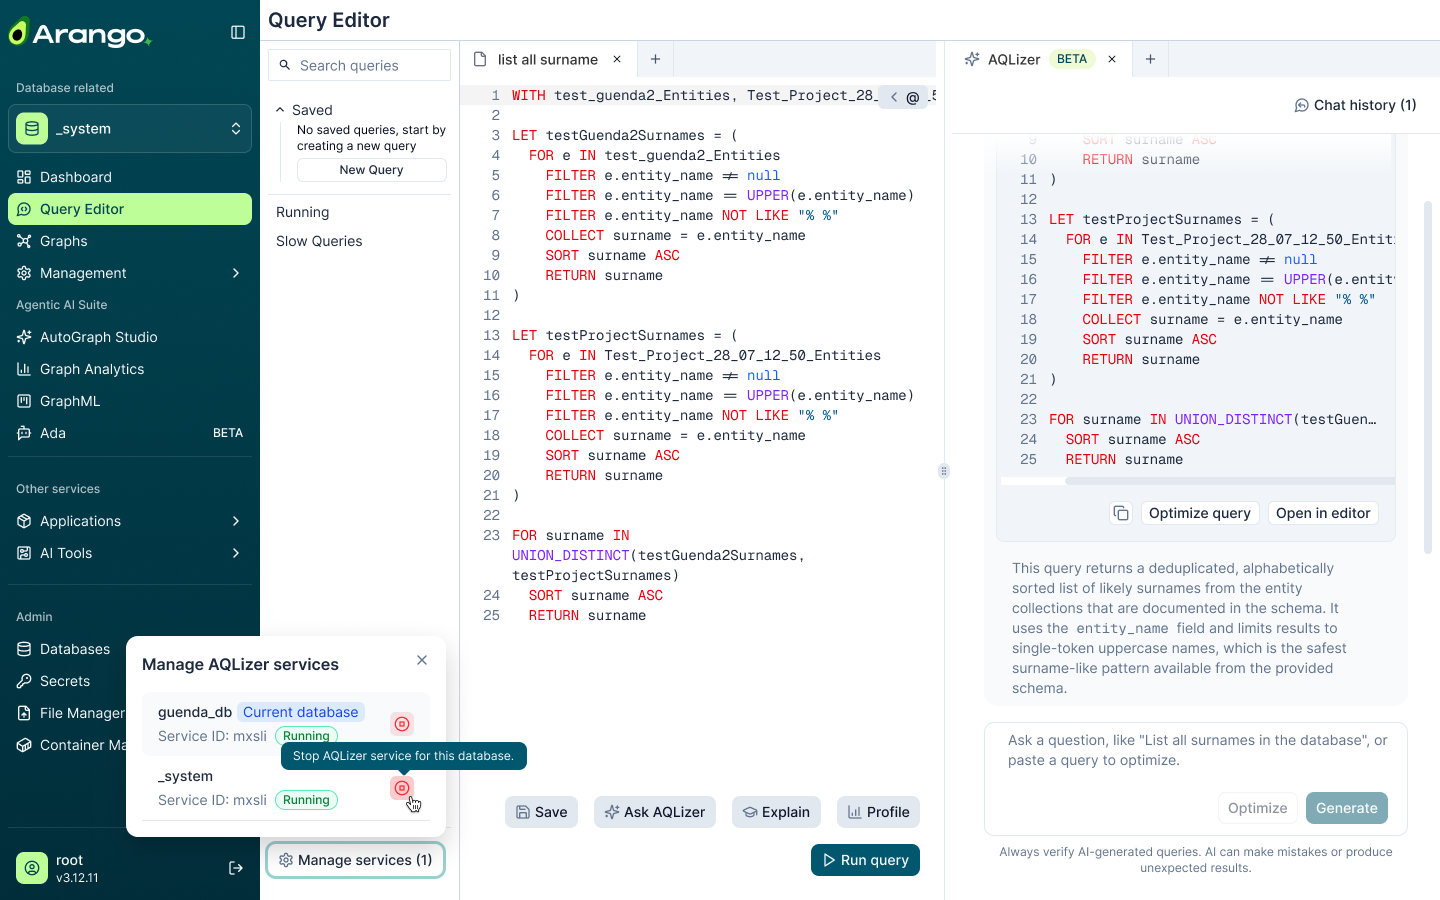
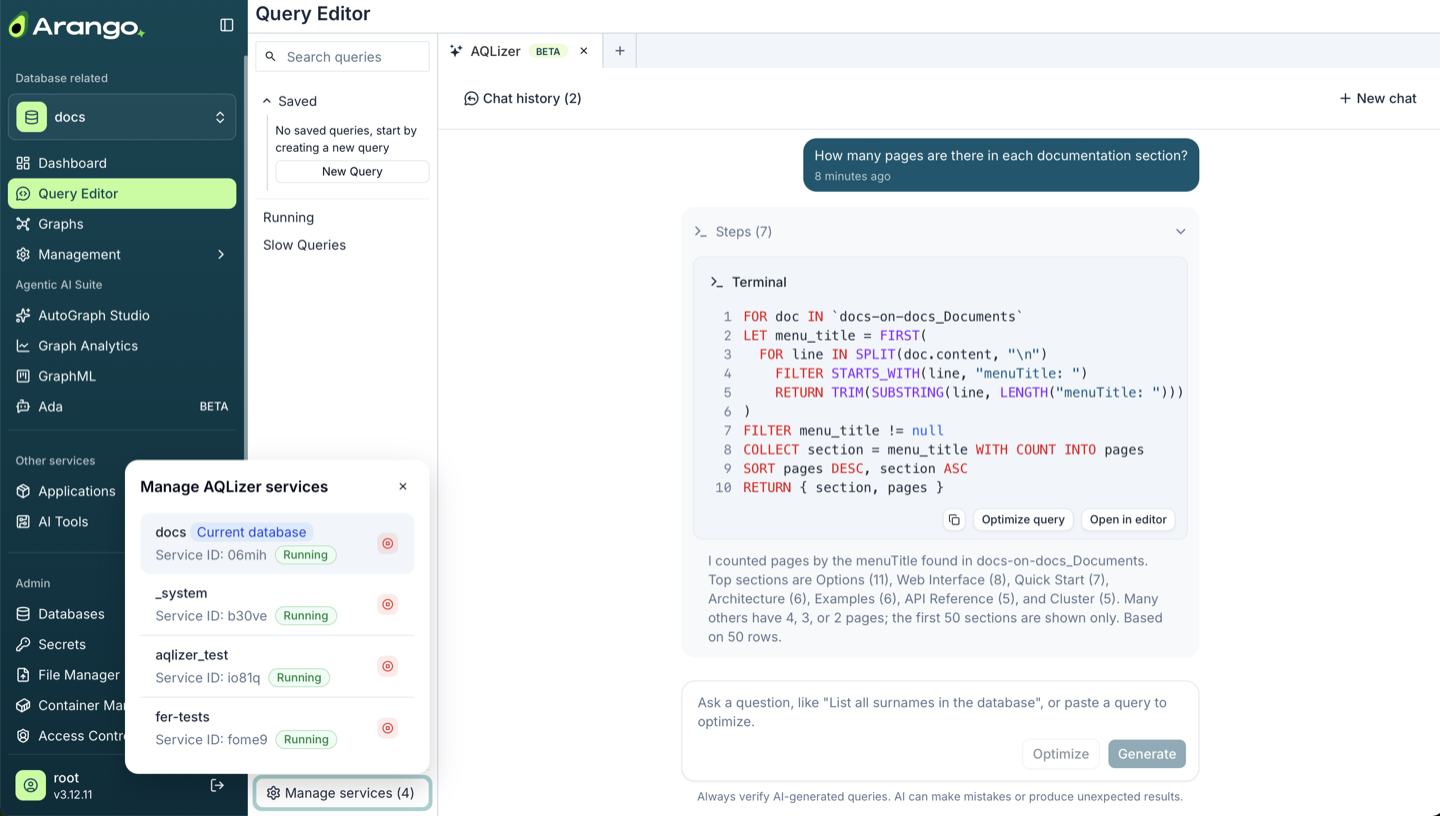
DOC-1002: Retake AQLizer screenshots, remove MCP endpoints
- Retake the generate, optimize, chat history, and manage services
  screenshots on the current UI and restore the services image
- Describe how chats are titled in the chat history
- Remove the MCP server endpoints from the API reference, as MCP
  servers are not supported as standalone services

diff --git a/site/content/contextual-data-platform/aqlizer/api-reference.md b/site/content/contextual-data-platform/aqlizer/api-reference.md
@@ -31,12 +31,8 @@ in the database.
 | [`POST /txt2aql`](#generate-a-query) | Generate | Turn a question into an AQL query, run it, and answer the question | Synchronous or streamed |
 | [`POST /query`](#optimize-a-query) | Optimize | Make an AQL query faster, with results verified to match | Synchronous or streamed |
 | [`POST /query/permission`](#approve-or-reject-a-tool-call) | Approve | Answer a request for permission to run a tool during `POST /query` | Synchronous |
-| [`POST /mcp/register`](#register-an-mcp-server) | Connect | Register the MCP server that provides the database tools | Synchronous |
-| [`GET /mcp/registered`](#list-registered-mcp-servers) | Connect | List the registered MCP servers | Synchronous |
-| [`DELETE /mcp/unregister/{server_name}`](#unregister-an-mcp-server) | Disconnect | Remove a registered MCP server | Synchronous |
 | [`GET /health`](#check-that-the-service-is-running) | Monitor | Check that the service process is running | Synchronous |
 | [`GET /health/ready`](#check-that-the-service-is-ready) | Monitor | Check the connection to the AI coder and the MCP server | Synchronous |
-| [`GET /health/mcp`](#check-the-mcp-server-connection) | Monitor | Report the connection status of each MCP server | Synchronous |
 
 ## Generate a query
 
@@ -454,158 +450,6 @@ curl -X POST \
   https://<EXTERNAL_ENDPOINT>:8529/reasoner/{service_id_postfix}/query/permission
 ```
 
-## Register an MCP server
-
-{{< endpoint "POST" "https://<EXTERNAL_ENDPOINT>:8529/reasoner/{service_id_postfix}/mcp/register" >}}
-
-Connects the AQLizer to the MCP server that provides its database tools. When
-the data platform starts the AQLizer, it registers the internal MCP server
-automatically, so you only need this endpoint to reconnect it. The AQLizer
-supports one MCP server at a time.
-
-### Request
-
-```json
-{
-  "name": "arangodb",
-  "config": {
-    "type": "remote",
-    "url": "http://arangodb-mcp-server-ir6oe:8080/",
-    "enabled": true
-  }
-}
-```
-
-### Parameters
-
-| Parameter | Type | Required | Default | Description |
-|-----------|------|----------|---------|-------------|
-| `name` | string | Yes | | The name of the MCP server, for example `arangodb`. |
-| `config.type` | string | No | `local` | `remote` for an MCP server reached over HTTP, such as the internal MCP server. |
-| `config.url` | string | For `remote` | | The URL of the MCP server, `http://arangodb-mcp-server-<postfix>:8080/`, where `<postfix>` is the end of the MCP server's service ID. |
-| `config.enabled` | boolean | No | `true` | Whether the MCP server is enabled. |
-
-### Response
-
-```json
-{
-  "success": true,
-  "message": "MCP server 'arangodb' registered successfully",
-  "server_name": "arangodb"
-}
-```
-
-| Field | Type | Meaning |
-|-------|------|---------|
-| `success` | boolean | Whether the MCP server has been registered. |
-| `message` | string | A status message. |
-| `server_name` | string | The name of the registered MCP server. |
-
-| Status Code | Meaning |
-|-------------|---------|
-| `200` | The MCP server has been registered. |
-| `400` | `config.url` is missing for `remote`, or `config.type` is not supported. |
-| `401` | The `Authorization` header is missing or invalid, or the token is expired. |
-| `500` | Registering failed. |
-| `502` | The AI coder sent an invalid response. |
-| `503` | The AQLizer cannot reach its AI coder. |
-| `504` | The AI coder did not respond after 3 attempts. |
-
-### HTTP example
-
-```bash
-curl -X POST \
-  -H "Content-Type: application/json" \
-  -H "Authorization: Bearer <token>" \
-  -d '{
-    "name": "arangodb",
-    "config": {
-      "type": "remote",
-      "url": "http://arangodb-mcp-server-ir6oe:8080/",
-      "enabled": true
-    }
-  }' \
-  https://<EXTERNAL_ENDPOINT>:8529/reasoner/{service_id_postfix}/mcp/register
-```
-
-## List registered MCP servers
-
-{{< endpoint "GET" "https://<EXTERNAL_ENDPOINT>:8529/reasoner/{service_id_postfix}/mcp/registered" >}}
-
-Lists the names of the MCP servers the AQLizer is connected to.
-
-### Response
-
-```json
-{
-  "registered_servers": ["arangodb"]
-}
-```
-
-| Field | Type | Meaning |
-|-------|------|---------|
-| `registered_servers` | string[] | The names of the registered MCP servers. |
-
-| Status Code | Meaning |
-|-------------|---------|
-| `200` | The list has been returned. |
-| `401` | The `Authorization` header is missing or invalid, or the token is expired. |
-| `503` | The AQLizer cannot reach its AI coder to read the list. |
-
-### HTTP example
-
-```bash
-curl -X GET \
-  -H "Authorization: Bearer <token>" \
-  https://<EXTERNAL_ENDPOINT>:8529/reasoner/{service_id_postfix}/mcp/registered
-```
-
-## Unregister an MCP server
-
-{{< endpoint "DELETE" "https://<EXTERNAL_ENDPOINT>:8529/reasoner/{service_id_postfix}/mcp/unregister/{server_name}" >}}
-
-Removes a registered MCP server. Without an MCP server, generating fails with
-`Can not generate AQL`.
-
-### Parameters
-
-| Parameter | Type | Required | Default | Description |
-|-----------|------|----------|---------|-------------|
-| `server_name` | string | Yes | | Path parameter. The name of the MCP server to remove, for example `arangodb`. |
-
-### Response
-
-```json
-{
-  "success": true,
-  "message": "MCP server 'arangodb' unregistered successfully",
-  "server_name": "arangodb"
-}
-```
-
-| Field | Type | Meaning |
-|-------|------|---------|
-| `success` | boolean | `true` if the MCP server has been removed or was not registered. |
-| `message` | string | A status message. If the MCP server was not registered, `MCP server '<name>' was already not registered`. |
-| `server_name` | string | The name from the path. |
-
-| Status Code | Meaning |
-|-------------|---------|
-| `200` | The MCP server has been removed, or was not registered. |
-| `401` | The `Authorization` header is missing or invalid, or the token is expired. |
-| `500` | Unregistering failed. |
-| `502` | The AI coder sent an invalid response. |
-| `503` | The AQLizer cannot reach its AI coder. |
-| `504` | The AI coder did not respond after 3 attempts. |
-
-### HTTP example
-
-```bash
-curl -X DELETE \
-  -H "Authorization: Bearer <token>" \
-  https://<EXTERNAL_ENDPOINT>:8529/reasoner/{service_id_postfix}/mcp/unregister/arangodb
-```
-
 ## Check that the service is running
 
 {{< endpoint "GET" "https://<EXTERNAL_ENDPOINT>:8529/reasoner/{service_id_postfix}/health" >}}
@@ -684,42 +528,4 @@ information. Use it as the Kubernetes readiness probe. No token is needed.
 ```bash
 curl -X GET \
   https://<EXTERNAL_ENDPOINT>:8529/reasoner/{service_id_postfix}/health/ready
-```
-
-## Check the MCP server connection
-
-{{< endpoint "GET" "https://<EXTERNAL_ENDPOINT>:8529/reasoner/{service_id_postfix}/health/mcp" >}}
-
-Reports the connection status of each registered MCP server. No token is
-needed.
-
-### Response
-
-```json
-{
-  "status": "healthy",
-  "servers": {
-    "arangodb": { "status": "connected" }
-  },
-  "connected_servers": ["arangodb"],
-  "timestamp": "2026-03-27T10:30:00.000Z"
-}
-```
-
-| Field | Type | Meaning |
-|-------|------|---------|
-| `status` | string | `healthy` if the registered MCP server is connected, `degraded` if it is not, `unhealthy` if no MCP server is configured, `error` if the AI coder could not be reached to read the status. |
-| `servers` | object | The connection status of each MCP server. |
-| `connected_servers` | string[] | The names of the connected MCP servers. |
-| `timestamp` | string | The time of the check. |
-
-| Status Code | Meaning |
-|-------------|---------|
-| `200` | The check has run. Read `status` for the result. |
-
-### HTTP example
-
-```bash
-curl -X GET \
-  https://<EXTERNAL_ENDPOINT>:8529/reasoner/{service_id_postfix}/health/mcp
 ```

diff --git a/site/content/contextual-data-platform/aqlizer/web-interface.md b/site/content/contextual-data-platform/aqlizer/web-interface.md
@@ -71,7 +71,7 @@ the editor to see them.
 You can optimize the result again until the AQLizer finds no further
 improvement.
 
-![Screenshot of the AQLizer with an optimization summary next to the original query](../../images/data-platform-aqlizer-optimize.png)
+![Screenshot of the AQLizer with an optimization summary and the final optimized query](../../images/data-platform-aqlizer-optimize.png)
 
 {{< warning >}}
 Always verify AI-generated queries.
@@ -106,8 +106,9 @@ context.
 
 Once you have a chat, two buttons appear at the top of the AQLizer tab:
 
-- **Chat history** in the top-left corner lists the past chats of the database,
-  by their first message and time. A chat that is still running shows
+- **Chat history** in the top-left corner lists the past chats of the database
+  with their time. A chat is titled by its question, or by `Optimize:` and the
+  query for an optimization. A chat that is still running shows
   **Answering...**.
   - To open a chat, click it.
   - To delete one chat, click the delete button ({{< icon "delete" >}}) next to
@@ -129,3 +130,5 @@ stops both **Generate** and **Optimize**, including the internal MCP server.
 
 The **Service ID** is the `{service_id_postfix}` in the paths of the
 [API](api-reference.md).
+
+![Screenshot of the Manage AQLizer services dialog with four running services](../../images/data-platform-aqlizer-services.png)
